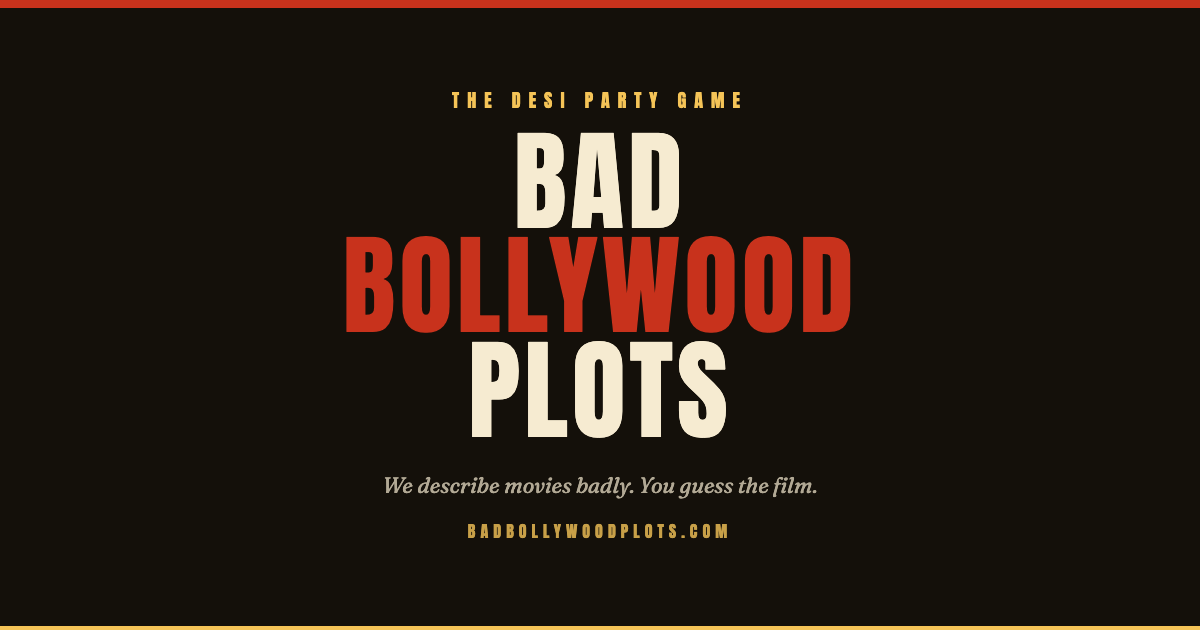
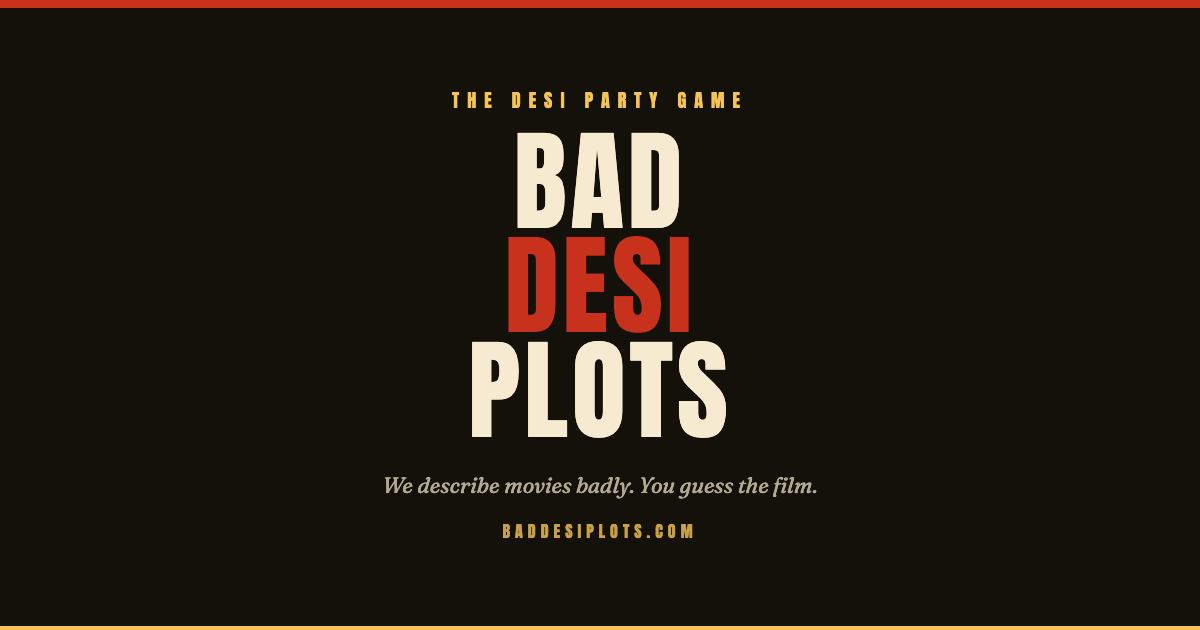
chore(brand): finish "Bad Bollywood Plots" -> "Bad Desi Plots" sweep
- Regenerate public/og-image.png as BAD DESI PLOTS / baddesiplots.com.
  Fixes WhatsApp / Twitter / FB link previews still showing old branding.
- scripts/og-template.html: title accent + footer URL
- scripts/generate-icons.html: footer URL
- scripts/generate.js, generate-batch.js, ask.js: card writer + analytics
  system prompts
- admin.html: analytics chat system prompt

Netlify legacy redirects from old domain are intentionally left in place
(serves bookmarks).

Changed region(s): [[0.2775, 0.3619, 0.7092, 0.5429], [0.4008, 0.8143, 0.6167, 0.8746]]

diff --git a/admin.html b/admin.html
@@ -991,7 +991,7 @@ async function sendChat() {
 
   try {
     const dataContext = aggregated ? JSON.stringify(aggregated) : '{"note":"No data loaded yet"}';
-    const sysPrompt = `You are an analytics assistant for SeedhaPlot (Bad Bollywood Plots), a Desi movie trivia party game with Bollywood and Tollywood cards in easy/medium/hard difficulty tiers.\n\nCURRENT DATA:\n${dataContext}\n\nAnalyze this data to answer questions. Be direct. Use numbers. Cite specific cards by name. Keep responses concise (3-5 paragraphs max).`;
+    const sysPrompt = `You are an analytics assistant for SeedhaPlot (Bad Desi Plots), a desi movie trivia party game with Bollywood and Tollywood cards in easy/medium/hard difficulty tiers.\n\nCURRENT DATA:\n${dataContext}\n\nAnalyze this data to answer questions. Be direct. Use numbers. Cite specific cards by name. Keep responses concise (3-5 paragraphs max).`;
 
     chatHistory.push({ role: 'user', content: question });
 

diff --git a/scripts/ask.js b/scripts/ask.js
@@ -14,7 +14,7 @@ const __dirname = dirname(fileURLToPath(import.meta.url));
 const CACHE_PATH = join(__dirname, '../.cache-aggregated.json');
 const CACHE_TTL = 60 * 60 * 1000; // 1 hour
 
-const SYSTEM_PROMPT = `You are an analytics assistant for SeedhaPlot (Bad Bollywood Plots), a Desi movie trivia party game.
+const SYSTEM_PROMPT = `You are an analytics assistant for SeedhaPlot (Bad Desi Plots), a desi movie trivia party game.
 
 The game has cards with terrible plot summaries of Bollywood and Tollywood movies. Players guess the movie. There are 3 difficulty tiers (easy/medium/hard), solo and multiplayer modes, and a feedback system.
 

diff --git a/scripts/generate.js b/scripts/generate.js
@@ -9,7 +9,7 @@ import { validateCard, formatCardForInsert } from './lib/card-schema.js';
 
 const BATCH_SIZE = 5;
 
-const SYSTEM_PROMPT = `You are a card writer for "Bad Bollywood Plots" — a Desi movie trivia party game.
+const SYSTEM_PROMPT = `You are a card writer for "Bad Desi Plots", a desi movie trivia party game.
 You write terrible, hilarious one-paragraph plot summaries of real Indian films.
 
 VOICE FINGERPRINT (see docs/voice-fingerprint.md for full spec):

diff --git a/scripts/generate-batch.js b/scripts/generate-batch.js
@@ -10,7 +10,7 @@ const MODEL = 'claude-sonnet-4-20250514';
 const BATCH_SIZE = 5;
 const COST_PER_CARD_EST = 0.005; // rough estimate
 
-const SYSTEM_PROMPT = `You are a card writer for "Bad Bollywood Plots" — a Desi movie trivia party game.
+const SYSTEM_PROMPT = `You are a card writer for "Bad Desi Plots", a desi movie trivia party game.
 You write terrible, hilarious one-paragraph plot summaries of real Indian films.
 
 VOICE RULES:

diff --git a/scripts/og-template.html b/scripts/og-template.html
@@ -48,11 +48,11 @@
   <div class="kicker">THE DESI PARTY GAME</div>
   <div class="title">
     BAD<br>
-    <span class="accent">BOLLYWOOD</span><br>
+    <span class="accent">DESI</span><br>
     PLOTS
   </div>
   <div class="tagline">We describe movies badly. You guess the film.</div>
-  <div class="url">BADBOLLYWOODPLOTS.COM</div>
+  <div class="url">BADDESIPLOTS.COM</div>
 </div>
 </body>
 </html>

diff --git a/scripts/generate-icons.html b/scripts/generate-icons.html
@@ -44,7 +44,7 @@
 
   <!-- URL -->
   <div style="font-family:'Anton',sans-serif;font-size:16px;color:#F5C457;letter-spacing:4px;margin-top:20px;opacity:0.8;">
-    BADBOLLYWOODPLOTS.COM
+    BADDESIPLOTS.COM
   </div>
 </div>
 
